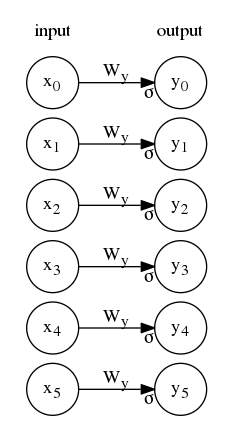
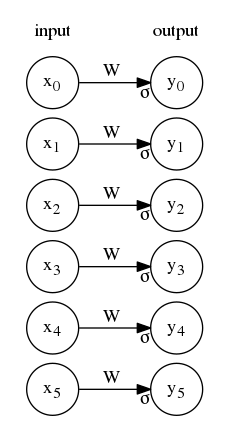
simplifies W_y with W for this section

diff --git a/_posts/2018-04-11-RNN-Keras-understanding-computations.md b/_posts/2018-04-11-RNN-Keras-understanding-computations.md
@@ -42,11 +42,11 @@ Dense(activation='sigmoid', units=1)
 
 corresponds to the mathematical equation
 
-$$y = \sigma(W_y x + b_y)$$
+$$y = \sigma(W x + b)$$
 
-(where $$W_y \in \mathbb{R}$$ and $$b_y \in \mathbb{R}$$ are the weights) and can be represented by the diagram (note that bias term has been masked to improve lisibility)
+(where $$W \in \mathbb{R}$$ and $$b \in \mathbb{R}$$ are the weights) and can be represented by the diagram (note that bias term has been masked to improve lisibility)
 
-<img src="../images/2018-04-11-RNN-Keras-understanding-computations/nn_dense_single.png" alt=""/>
+<center><img src="../images/2018-04-11-RNN-Keras-understanding-computations/nn_dense_single.png" alt=""/></center>
 
 **TimeDistributed wrapper in dimension 1.** 
 The TimeDistributed wrapper applies the same layer to each time step. 
@@ -55,17 +55,18 @@ the model
 
 ```python
 model=Sequential()
-model.add(TimeDistributed(Dense(activation='sigmoid', units=1),
+model.add(TimeDistributed(Dense(activation='sigmoid', 
+                                units=1),
                           input_shape=(None, 1)))
 ```
 
 corresponds to the equation
 
-$$y_t = \sigma(W_y x_t + b_y)$$
+$$y_t = \sigma(W x_t + b)$$
 
-for each $$t \in \lbrace 0, \ldots 5 \rbrace$$ (where $$W_y \in \mathbb{R}$$ and $$b_y \in \mathbb{R}$$ are identical for each $$t$$) and can be represented by the diagram
+for each $$t \in \lbrace 0, \ldots 5 \rbrace$$ (where $$W \in \mathbb{R}$$ and $$b \in \mathbb{R}$$ are identical for each $$t$$) and can be represented by the diagram
 
-<img src="../images/2018-04-11-RNN-Keras-understanding-computations/nn_timedistributed.png" alt=""/>
+<center><img src="../images/2018-04-11-RNN-Keras-understanding-computations/nn_timedistributed.png" alt=""/></center>
 
 **Input and output shapes in practice.**
 Input shape has usually the shape $$(N, T, m)$$, where $$N$$ is sample size, $$T$$ is temporal size, and $$m$$ is the dimension of each input vector.
@@ -124,13 +125,13 @@ print(model.predict(new_input))
 Computation can be understood in details:
 
 ```python
-W_y = model.get_weights()[0] # this is a (2,3) matrix
-b_y = model.get_weights()[1] # this is a (3,1) vector
+W = model.get_weights()[0] # this is a (2,3) matrix
+b = model.get_weights()[1] # this is a (3,1) vector
 # At each time, we have a dense neural network (without hidden layer) from 2+1 inputs to 3 outputs.
 # So on the whole, there 9 parameters (the same parameters at each time).
 
 [[sigmoid(y)
-  for y in np.dot(x,W_y)+b_y] # like doing X * beta
+  for y in np.dot(x,W)+b] # like doing X * beta
   for x in [[1,1],[0.8,0.8],[0.6,0.6],[0.2,0.2],[1,1],[0,0]]]
 # We obtain the same results
 ```
